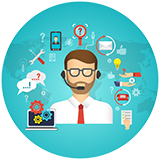
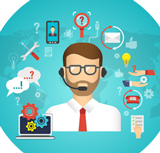
Commit

diff --git a/assets/css/style.css b/assets/css/style.css
@@ -123,7 +123,8 @@ body{
 }
 
 .feature-icon a img {
-    margin-top: 39px;
+    border-radius: 60%;
+    margin-top: 18px;
 }
 
 .green .feature-icon a {

diff --git a/application/views/common/header.php b/application/views/common/header.php
@@ -163,6 +163,10 @@
             <div class="container">
                 <div class="full-width-mega-dropdown">
                     <div class="row align-items-center">
+
+                        <div class="col-lg-2 col-md-3 col">
+                            <div class="logo ptb-20"><a href="<?php echo base_url();?>"> <img src="<?php echo base_url(); ?>assets/img/opera.png" alt="main logo"></a></div>
+                        </div>
                         <div class="col-lg-10 col-md-9 col">
                             <nav id="primary-menu">
                                 <?php
@@ -183,9 +187,6 @@
                                 ?>
 
                             </nav>
-                        </div>
-                        <div class="col-lg-2 col-md-3 col">
-                            <div class="logo ptb-20"><a href="<?php echo base_url();?>"> <img src="<?php echo base_url(); ?>assets/img/opera.png" alt="main logo"></a></div>
                         </div>
 
                     </div>

diff --git a/application/views/common/footer.php b/application/views/common/footer.php
@@ -73,7 +73,7 @@
         rtl: true,
         margin: 10,
         lazyLoad: true,
-        navText: ["<button><i class='fa fa-angle-right'></i></button>",],
+        navText: ["<button><i class='fa fa-angle-right'></i></button>","<button><i class='fa fa-angle-left'></i></button>"],
         responsiveClass:true,
         responsive:{
             0:{

diff --git a/application/views/home.php b/application/views/home.php
@@ -1,8 +1,5 @@
 <?php if ($page_content->show_slider) {   $config->render(['common/slideshow']); } ?>
-
-<?php   $config->render([$page])?>
-
-
+<?php $config->render([$page])?>
 
 
 <div class="counter-area text-center ptb-60">
